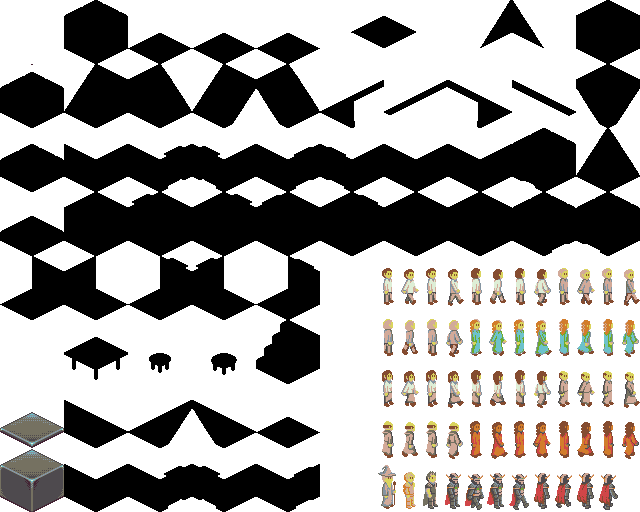
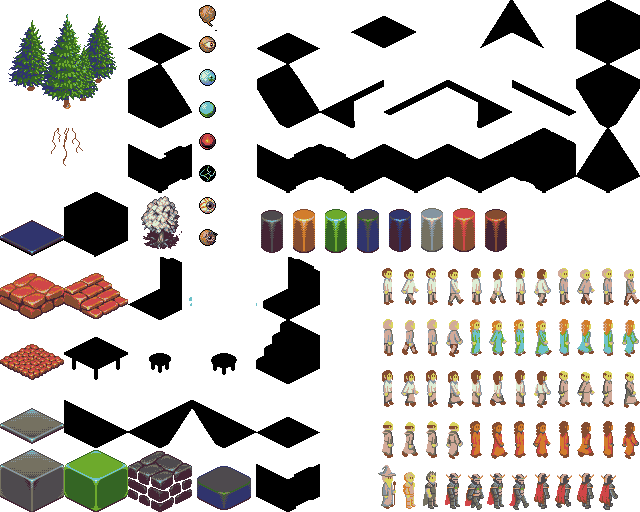
added beholders, line drawing, working on tower attack

diff --git a/main.go b/main.go
@@ -3,10 +3,13 @@ package main
 import (
 	"fmt"
 	"image"
+	"math"
+	"math/rand"
 	"os"
 	"time"
 
 	"github.com/faiface/pixel"
+	"github.com/faiface/pixel/imdraw"
 	"github.com/faiface/pixel/pixelgl"
 	"golang.org/x/image/colornames"
 
@@ -21,15 +24,11 @@ type cardinal struct {
 type actor struct {
 	x         int
 	y         int
+	coord     pixel.Vec
 	frames    []*pixel.Sprite
 	frame     int
 	path      []*node
 	direction cardinal
-}
-
-type vec2 struct {
-	x float64
-	y float64
 }
 
 func lerp(start pixel.Vec, end pixel.Vec, percent float64) pixel.Vec {
@@ -49,9 +48,14 @@ const (
 
 var levelData = [32][32]uint{}
 
+var doodadData = [32][32]uint{}
+
 var win *pixelgl.Window
 var floorTile, wallTile *pixel.Sprite
 var tiles []*pixel.Sprite
+var doodads []*pixel.Sprite
+
+var actors []*actor
 
 var (
 	camPos       = pixel.ZV
@@ -73,6 +77,18 @@ func loadPicture(path string) (pixel.Picture, error) {
 	return pixel.PictureDataFromImage(img), nil
 }
 
+func wall_gen(x int, y int) {
+	levelData[x][y] = 4
+	r := rand.Intn(6)
+	if x < 30 && x > 0 && y < 30 && y > 0 {
+		if r < 2 {
+			wall_gen(x+1, y)
+		} else if r < 4 {
+			wall_gen(x, y+1)
+		}
+	}
+}
+
 func run() {
 
 	var err error
@@ -88,7 +104,6 @@ func run() {
 	}
 
 	// MAP
-
 	pic, err := loadPicture("dawncastle.png")
 	if err != nil {
 		panic(err)
@@ -96,11 +111,76 @@ func run() {
 
 	mapBatch := pixel.NewBatch(&pixel.TrianglesData{}, pic)
 
+	// ground
 	tiles = append(tiles, pixel.NewSprite(pic, pixel.R(0, 64, tileSize, 128)))
+
+	// road
+	tiles = append(tiles, pixel.NewSprite(pic, pixel.R(0, 128, tileSize, 192)))
+
+	// bridge
+	tiles = append(tiles, pixel.NewSprite(pic, pixel.R(64, 256, tileSize+64, 256-64)))
+	tiles = append(tiles, pixel.NewSprite(pic, pixel.R(0, 256, tileSize, 256-64)))
+
+	// block
 	tiles = append(tiles, pixel.NewSprite(pic, pixel.R(0, 0, tileSize, 64)))
 
-	// PLAYER
+	// water
+	tiles = append(tiles, pixel.NewSprite(pic, pixel.R(0, 256, tileSize, 256+64)))
 
+	doodads = append(doodads, pixel.NewSprite(pic, pixel.R(0, 640-128, tileSize*2, 640-320)))
+	doodads = append(doodads, pixel.NewSprite(pic, pixel.R(0, 640-128, tileSize*2, 640-320)))
+
+	// beholders
+	for i := 0; i < 8; i++ {
+		doodads = append(doodads, pixel.NewSprite(pic, pixel.R(192, 512-32*float64(i), 192+32, 512-32*(float64(i)+1))))
+	}
+
+	// MAP GENERATION
+
+	// make some random trees
+	for i := 0; i < rand.Intn(60); i++ {
+		doodadData[rand.Intn(31)][rand.Intn(31)] = 1
+	}
+
+	// make some walls
+	for i := 0; i < 10; i++ {
+
+		start_x := rand.Intn(25) + 4
+		start_y := rand.Intn(25) + 4
+		wall_gen(start_x, start_y)
+
+	}
+
+	// generate a path
+	road_start := &node{x: rand.Intn(31), y: 0}
+	road := Astar(road_start, &node{x: rand.Intn(31), y: 31}, levelData)
+
+	// generate a river
+	river_start := &node{x: 0, y: rand.Intn(31)}
+	river := Astar(river_start, &node{x: 31, y: rand.Intn(31)}, levelData)
+
+	// bake the road onto the array
+	for _, node := range road {
+		levelData[node.x][node.y] = 1
+	}
+	// bake the river onto the array
+
+	river = append(river, river_start)
+
+	for _, node := range river {
+		if levelData[node.x][node.y] == 1 || node.x > 0 && levelData[node.x-1][node.y] == 1 {
+			levelData[node.x][node.y-1] = 2
+			levelData[node.x][node.y] = 3
+			levelData[node.x][node.y+1] = 3
+
+		} else {
+			levelData[node.x][node.y] = 5
+			levelData[node.x][node.y+1] = 5
+
+		}
+	}
+
+	// PLAYER
 	// load in player sprites
 	// playerSprites, err := loadPicture("dawncastle.png")
 	// if err != nil {
@@ -108,23 +188,32 @@ func run() {
 	// }
 	// playerBatch := pixel.NewBatch(&pixel.TrianglesData{}, playerSprites)
 	// wizard
+
 	var player = actor{x: 0, y: 0, frame: 0}
+	var creep = actor{x: 0, y: 0, frame: 0}
 
 	var min_Y float64 = 52 * 3
 	var max_Y float64 = 52*4 - 10
 	var min_X float64 = 466.0
 
-	// walking down
-	player.frames = append(player.frames, pixel.NewSprite(pic, pixel.R(min_X+22*0, min_Y, min_X+22*1, max_Y)))
-	player.frames = append(player.frames, pixel.NewSprite(pic, pixel.R(min_X+22*1, min_Y, min_X+22*2, max_Y)))
-	player.frames = append(player.frames, pixel.NewSprite(pic, pixel.R(min_X+22*2, min_Y, min_X+22*3, max_Y)))
-	player.frames = append(player.frames, pixel.NewSprite(pic, pixel.R(min_X+22*3, min_Y, min_X+22*4, max_Y)))
+	// PLAYER ANIMATION FRAMES
+	for i := 0; i < 8; i++ {
+		player.frames = append(player.frames, pixel.NewSprite(pic, pixel.R(min_X+22*float64(i), min_Y, min_X+22*float64(i+1), max_Y)))
+	}
 
-	// walking up
-	player.frames = append(player.frames, pixel.NewSprite(pic, pixel.R(min_X+22*4, min_Y, min_X+22*5, max_Y)))
-	player.frames = append(player.frames, pixel.NewSprite(pic, pixel.R(min_X+22*5, min_Y, min_X+22*6, max_Y)))
-	player.frames = append(player.frames, pixel.NewSprite(pic, pixel.R(min_X+22*6, min_Y, min_X+22*7, max_Y)))
-	player.frames = append(player.frames, pixel.NewSprite(pic, pixel.R(min_X+22*7, min_Y, min_X+22*8, max_Y)))
+	min_X = 466.0 - 22
+	min_Y = 0
+	max_Y = 0 + 42
+
+	// CREEP ANIMATION FRAMES
+	for i := 0; i < 8; i++ {
+		creep.frames = append(creep.frames, pixel.NewSprite(pic, pixel.R(min_X+22*float64(i), min_Y, min_X+22*float64(i+1), max_Y)))
+	}
+
+	actors = append(actors, &player)
+	actors = append(actors, &creep)
+
+	creep.path = Astar(&node{x: creep.x, y: creep.y}, road[0], levelData)
 
 	var (
 		frames = 0
@@ -134,35 +223,42 @@ func run() {
 
 	last := time.Now()
 
-	updateMap(mapBatch, player)
-
-	//updatePlayer(mapBatch, player)
-
 	for !win.Closed() {
 
 		dt := time.Since(last).Seconds()
 
 		ticks += dt
 
+		for _, a := range actors {
+			a.coord = pixel.Lerp(a.coord, cartesianToIso(pixel.Vec{X: float64(a.x), Y: float64(a.y)}), dt*1.5)
+		}
+
 		if ticks > 0.1 {
 
-			player.frame = (player.frame + 1) % 4
+			for _, a := range actors {
+				a.frame = (a.frame + 1) % 4
 
-			if len(player.path) > 0 {
+				if len(a.path) > 0 {
 
-				player.direction.e = player.x - player.path[len(player.path)-1].x
-				player.direction.n = player.y - player.path[len(player.path)-1].y
+					a.x = a.path[len(a.path)-1].x
+					a.y = a.path[len(a.path)-1].y
 
-				player.x = player.path[len(player.path)-1].x
-				player.y = player.path[len(player.path)-1].y
+					i := isoToCartesian(a.coord)
+					if math.Pow(i.X-float64(a.x), 2.0)+math.Pow(i.Y-float64(a.y), 2.0) < 4 {
 
-				player.path = player.path[:len(player.path)-1]
+						a.path = a.path[:len(a.path)-1]
+
+						if len(a.path) > 0 {
+							a.direction.e = a.x - a.path[len(a.path)-1].x
+							a.direction.n = a.y - a.path[len(a.path)-1].y
+						}
+					}
+				}
 			}
 
-			//updatePlayer(mapBatch, player)
-			updateMap(mapBatch, player)
 			ticks = 0
 		}
+		updateMap(mapBatch, actors, dt)
 
 		last = time.Now()
 
@@ -177,13 +273,44 @@ func run() {
 
 			if coordX < len(levelData) && coordY < len(levelData[0]) && coordX >= 0 && coordY >= 0 {
 				if levelData[coordX][coordY] == 0 {
-					levelData[coordX][coordY] = 1
+					levelData[coordX][coordY] = 4
 				} else {
 					levelData[coordX][coordY] = 0
 				}
 
 			}
-			updateMap(mapBatch, player)
+		}
+
+		if win.JustPressed(pixelgl.Key2) {
+			var raw = isoToCartesian(cam.Unproject(win.MousePosition()))
+
+			var coordX = int(raw.X + 1)
+			var coordY = int(raw.Y + 1)
+
+			if coordX < len(doodadData) && coordY < len(doodadData[0]) && coordX >= 0 && coordY >= 0 {
+				if doodadData[coordX][coordY] == 0 {
+					doodadData[coordX][coordY] = 1
+				} else {
+					doodadData[coordX][coordY] = 0
+				}
+
+			}
+		}
+
+		if win.JustPressed(pixelgl.Key3) {
+			var raw = isoToCartesian(cam.Unproject(win.MousePosition()))
+
+			var coordX = int(raw.X + 1)
+			var coordY = int(raw.Y + 1)
+
+			if coordX < len(doodadData) && coordY < len(doodadData[0]) && coordX >= 0 && coordY >= 0 {
+				if doodadData[coordX][coordY] == 0 {
+					doodadData[coordX][coordY] = 3
+				} else {
+					doodadData[coordX][coordY] = 0
+				}
+
+			}
 		}
 
 		if win.JustPressed(pixelgl.MouseButtonLeft) {
@@ -198,7 +325,7 @@ func run() {
 			}
 		}
 
-		camPos = lerp(camPos, cartesianToIso(pixel.Vec{X: float64(player.x), Y: float64(player.y)}), dt)
+		camPos = lerp(camPos, player.coord, dt)
 
 		// manual camera
 
@@ -217,8 +344,19 @@ func run() {
 
 		// camZoom *= math.Pow(camZoomSpeed, win.MouseScroll().Y)
 
-		win.Clear(colornames.Darkmagenta)
+		// ... draw the scene using imd
+
+		imd := imdraw.New(nil)
+
+		imd.Color = colornames.Red
+		imd.EndShape = imdraw.RoundEndShape
+		imd.Push(actors[0].coord, actors[1].coord)
+		imd.EndShape = imdraw.SharpEndShape
+		imd.Line(1)
+
+		win.Clear(colornames.Black)
 		mapBatch.Draw(win)
+		imd.Draw(win)
 		// playerBatch.Draw(win)
 		win.Update()
 
@@ -233,9 +371,7 @@ func run() {
 	}
 }
 
-// TODO: combine the player sprite and map sprite sheet to batch all at once
-
-func updateMap(batch *pixel.Batch, player actor) {
+func updateMap(batch *pixel.Batch, actors []*actor, dt float64) {
 
 	batch.Clear()
 
@@ -249,19 +385,29 @@ func updateMap(batch *pixel.Batch, player actor) {
 
 			mat := pixel.IM.Moved(isoCoords)
 			tiles[levelData[x][y]].Draw(batch, mat)
+			// draw doodads
 
-			if x == player.x && y == player.y {
+			if doodadData[x][y] > 0 {
+				doodads[doodadData[x][y]].Draw(batch, mat)
+			}
 
-				if player.direction.n < 0 || player.direction.e > 0 {
-					pmat = pmat.ScaledXY(pixel.ZV, pixel.V(float64(player.direction.n+-1*player.direction.e), 1))
+			for _, a := range actors {
+				i := isoToCartesian(a.coord)
+
+				// draw actor
+				offset := 0.1
+				if x == int(i.X+offset) && y == int(i.Y+offset) {
+					if a.direction.n < 0 || a.direction.e > 0 {
+						pmat = pmat.ScaledXY(pixel.ZV, pixel.V(float64(a.direction.n+-1*a.direction.e), 1))
+					}
+
+					if a.direction.n+a.direction.e < 0 {
+						startingFrame = 4
+					}
+
+					pmat = pmat.Moved(a.coord)
+					a.frames[a.frame+startingFrame].Draw(batch, pmat)
 				}
-
-				if player.direction.n+player.direction.e < 0 {
-					startingFrame = 4
-				}
-
-				pmat = pmat.Moved(isoCoords)
-				player.frames[player.frame+startingFrame].Draw(batch, pmat)
 			}
 		}
 	}

diff --git a/a_star.go b/a_star.go
@@ -22,7 +22,7 @@ func manhattan_distance(a node, b node) int {
 
 func walkable(n node, grid [32][32]uint) bool {
 	if n.x >= 0 && n.y >= 0 && n.x < len(grid[0]) && n.y < len(grid) {
-		return grid[n.x][n.y] == 0
+		return grid[n.x][n.y] < 4
 	} else {
 		return false
 	}
